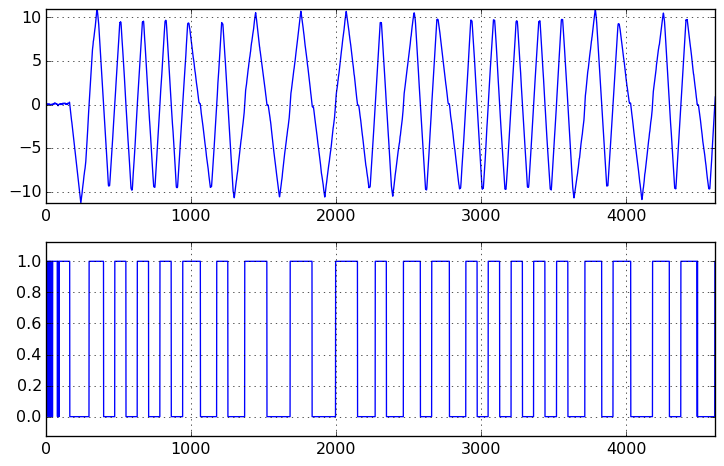
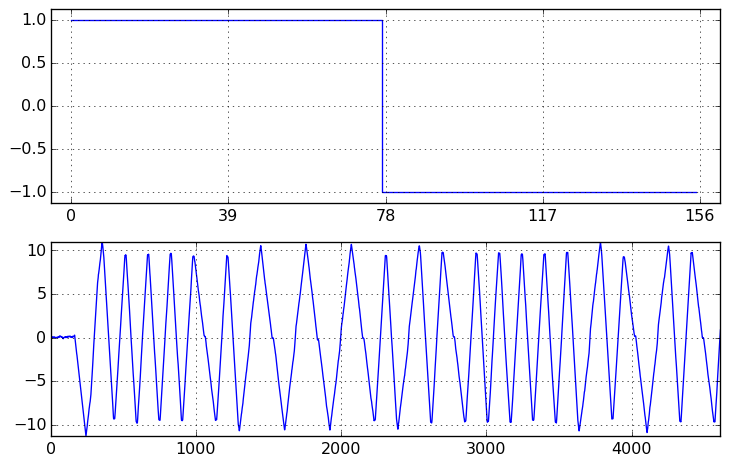
Update filter figure.

diff --git a/assets/filter.py b/assets/filter.py
@@ -20,17 +20,17 @@ mag = np.abs(iq)
 
 filtered = np.correlate(mag, np.append(np.ones(78), -np.ones(78)))
 
-mag_plot.plot(filtered)
+kernel = np.append(np.ones(78), -np.ones(78))
+mag_plot.step(np.arange(kernel.size), kernel)
 mag_plot.grid(axis='both')
 mag_plot.autoscale(tight=True)
+mag_plot.set_ylim(-1.125, 1.125)
+mag_plot.set_xlim(-5, 78*2 + 5)
+mag_plot.xaxis.set_ticks([0,39, 78, 117, 156])
 
-quantized = np.digitize(filtered, [0])
-
-spec_plot.plot(quantized)
-
+spec_plot.plot(filtered)
 spec_plot.grid(axis='both')
 spec_plot.autoscale(tight=True)
-spec_plot.set_ylim(-0.125, 1.125)
 
 plt.savefig('filter.png', dpi=96, transparent=True, bbox_inches="tight")
 # plt.show()
